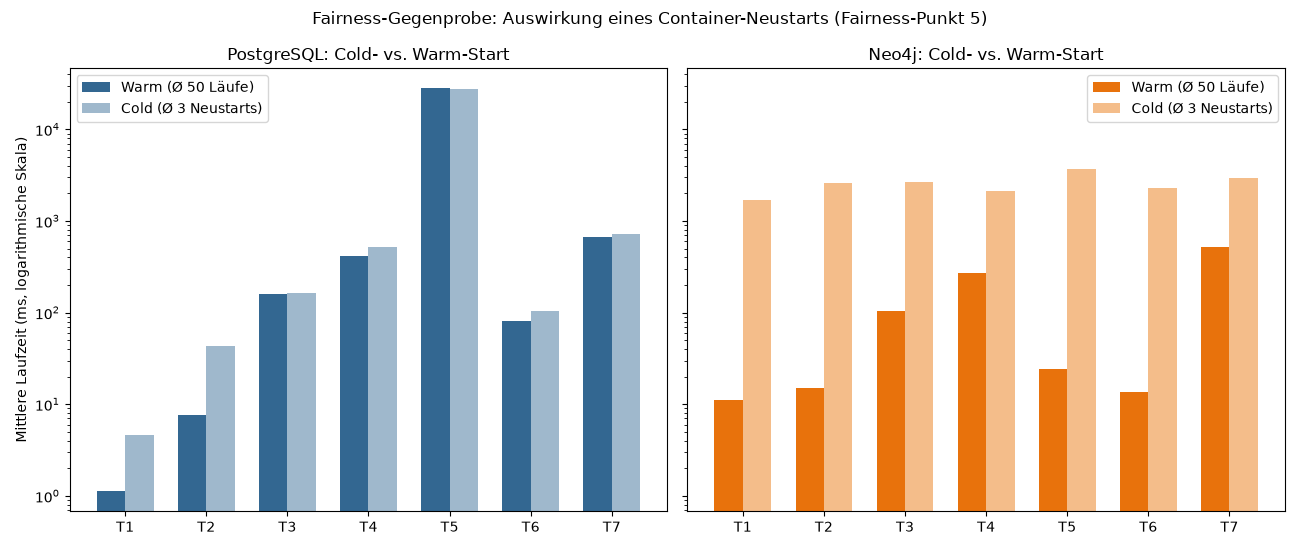
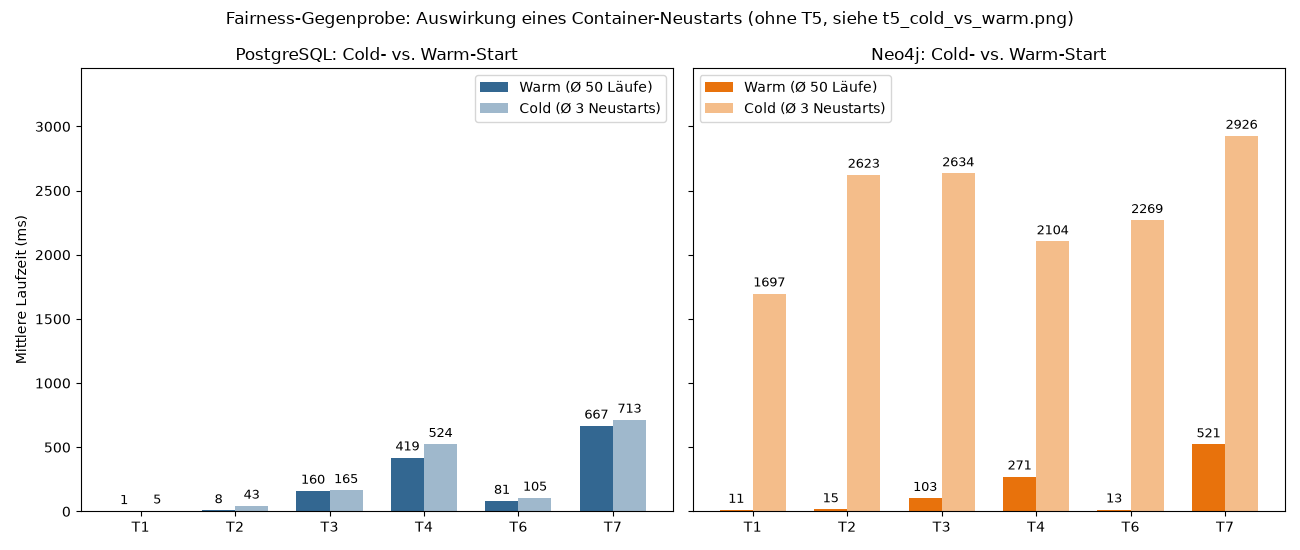
changed loga to ms

diff --git a/benchmark/plot_results.py b/benchmark/plot_results.py
@@ -3,6 +3,14 @@
 Liest, was an Ergebnissen vorhanden ist - fehlende Dateien werden einfach
 uebersprungen (kein Fehler), damit das Skript auch mit einem Teil-Datensatz
 an Messungen laeuft.
+
+Bewusst OHNE logarithmische Achsen: fuer ein Laien-Publikum ist eine
+Log-Skala schwer zu lesen (gleicher Abstand = "mal 10", nicht "plus 10").
+Stattdessen werden Werte mit sehr unterschiedlicher Groessenordnung (vor
+allem T5, das alle anderen Werte um das > 1000-fache uebersteigt) in
+eigene Diagramme ausgelagert, und jeder Balken bekommt seine Zahl direkt
+als Beschriftung - so bleibt alles in normalen Millisekunden/Sekunden
+ablesbar, auch wenn ein Balken auf der Achse winzig erscheint.
 """
 
 import csv
@@ -14,6 +22,9 @@ import matplotlib.pyplot as plt
 
 RESULTS_DIR = Path(__file__).resolve().parent.parent / "results"
 PLOTS_DIR = RESULTS_DIR / "plots"
+
+PG_COLOR = "#336791"
+NEO_COLOR = "#E8720C"
 
 
 def read_csv(path: Path) -> list[dict]:
@@ -30,43 +41,114 @@ def mean_by_system(rows: list[dict]) -> dict[str, float]:
     return out
 
 
-def plot_single_queries() -> None:
+def label_bars(ax, bars, fmt: str) -> None:
+    """Schreibt den Wert jedes Balkens als Zahl direkt darueber."""
+    for bar in bars:
+        height = bar.get_height()
+        ax.annotate(
+            fmt.format(height),
+            xy=(bar.get_x() + bar.get_width() / 2, height),
+            xytext=(0, 3),
+            textcoords="offset points",
+            ha="center",
+            va="bottom",
+            fontsize=9,
+        )
+
+
+def grouped_bar_chart(labels, pg_values, neo_values, *, ylabel, title, unit_fmt="{:.0f} ms") -> plt.Figure:
+    x = range(len(labels))
+    width = 0.35
+    fig, ax = plt.subplots(figsize=(7.5, 5))
+    bars_pg = ax.bar([i - width / 2 for i in x], pg_values, width, label="PostgreSQL", color=PG_COLOR)
+    bars_neo = ax.bar([i + width / 2 for i in x], neo_values, width, label="Neo4j", color=NEO_COLOR)
+    ax.set_xticks(list(x))
+    ax.set_xticklabels(labels)
+    ax.set_ylabel(ylabel)
+    ax.set_title(title)
+    ax.legend()
+    ax.margins(y=0.15)  # Platz fuer die Zahlen-Beschriftung ueber den Balken
+    label_bars(ax, bars_pg, unit_fmt)
+    label_bars(ax, bars_neo, unit_fmt)
+    fig.tight_layout()
+    return fig
+
+
+def save(fig: plt.Figure, filename: str) -> None:
+    PLOTS_DIR.mkdir(exist_ok=True)
+    out_path = PLOTS_DIR / filename
+    fig.savefig(out_path)
+    plt.close(fig)
+    print(f"Gespeichert: {out_path}")
+
+
+def collect_query_means(query_ids: list[str]) -> tuple[list[str], list[float], list[float]]:
     labels, pg_means, neo_means = [], [], []
-    for i in range(1, 7):
-        path = RESULTS_DIR / f"T{i}.csv"
+    for qid in query_ids:
+        path = RESULTS_DIR / f"{qid}.csv"
         if not path.exists():
             continue
         means = mean_by_system(read_csv(path))
         if not means:
             continue
-        labels.append(f"T{i}")
+        labels.append(qid)
         pg_means.append(means.get("postgres", 0))
         neo_means.append(means.get("neo4j", 0))
+    return labels, pg_means, neo_means
 
+
+def plot_queries_simple() -> None:
+    """T1/T2: einfache Abfragen, normale ms-Skala."""
+    labels, pg_means, neo_means = collect_query_means(["T1", "T2"])
     if not labels:
-        print("Keine T1-T6 Ergebnisse gefunden - Diagramm wird ausgelassen.")
+        print("Keine T1/T2-Ergebnisse gefunden - Diagramm wird ausgelassen.")
         return
+    fig = grouped_bar_chart(
+        labels, pg_means, neo_means,
+        ylabel="Mittlere Laufzeit (ms)",
+        title="Einfache Abfragen (T1, T2)",
+        unit_fmt="{:.1f} ms",
+    )
+    save(fig, "queries_einfach.png")
 
-    x = range(len(labels))
-    width = 0.35
-    fig, ax = plt.subplots(figsize=(8, 5))
-    ax.bar([i - width / 2 for i in x], pg_means, width, label="Postgres")
-    ax.bar([i + width / 2 for i in x], neo_means, width, label="Neo4j")
-    ax.set_xticks(list(x))
-    ax.set_xticklabels(labels)
-    ax.set_ylabel("Mittlere Laufzeit (ms, logarithmische Skala)")
-    # Log-Skala, weil T5 (Sekunden) und T1 (Millisekunden) sonst auf derselben
-    # linearen Achse nicht gleichzeitig lesbar waeren.
-    ax.set_yscale("log")
-    ax.set_title("Laufzeitvergleich pro Query (Mittelwert ueber alle Laeufe)")
-    ax.legend()
+
+def plot_queries_traversal() -> None:
+    """T3/T4/T6: Traversierungs-Abfragen, normale ms-Skala."""
+    labels, pg_means, neo_means = collect_query_means(["T3", "T4", "T6"])
+    if not labels:
+        print("Keine T3/T4/T6-Ergebnisse gefunden - Diagramm wird ausgelassen.")
+        return
+    fig = grouped_bar_chart(
+        labels, pg_means, neo_means,
+        ylabel="Mittlere Laufzeit (ms)",
+        title="Traversierungs-Abfragen (T3, T4, T6)",
+        unit_fmt="{:.0f} ms",
+    )
+    save(fig, "queries_traversierung.png")
+
+
+def plot_t5_special() -> None:
+    """T5 (kuerzester Pfad) sprengt jede gemeinsame ms-Skala - eigenes
+    Diagramm, in Sekunden statt Millisekunden (verstaendlicher: "28 s" statt
+    "27940 ms")."""
+    path = RESULTS_DIR / "T5.csv"
+    if not path.exists():
+        print("Keine T5-Ergebnisse gefunden - Diagramm wird ausgelassen.")
+        return
+    means = mean_by_system(read_csv(path))
+    if not means:
+        return
+    labels = ["PostgreSQL", "Neo4j"]
+    values_s = [means.get("postgres", 0) / 1000, means.get("neo4j", 0) / 1000]
+
+    fig, ax = plt.subplots(figsize=(6, 5))
+    bars = ax.bar(labels, values_s, color=[PG_COLOR, NEO_COLOR])
+    ax.set_ylabel("Mittlere Laufzeit (Sekunden)")
+    ax.set_title("Sonderfall T5 - kürzester Pfad")
+    ax.margins(y=0.15)
+    label_bars(ax, bars, "{:.3f} s")
     fig.tight_layout()
-
-    PLOTS_DIR.mkdir(exist_ok=True)
-    out_path = PLOTS_DIR / "queries_vergleich.png"
-    fig.savefig(out_path)
-    plt.close(fig)
-    print(f"Gespeichert: {out_path}")
+    save(fig, "t5_sonderfall.png")
 
 
 def plot_scaling() -> None:
@@ -90,41 +172,43 @@ def plot_scaling() -> None:
     neo_means = [p[1].get("neo4j", 0) for p in points]
 
     fig, ax = plt.subplots(figsize=(8, 5))
-    ax.plot(sizes, pg_means, marker="o", label="Postgres")
-    ax.plot(sizes, neo_means, marker="o", label="Neo4j")
+    ax.plot(sizes, pg_means, marker="o", label="PostgreSQL", color=PG_COLOR)
+    ax.plot(sizes, neo_means, marker="o", label="Neo4j", color=NEO_COLOR)
     ax.set_xlabel("Anzahl Knoten in der Teilmenge")
     ax.set_ylabel("Mittlere Laufzeit T7 (ms)")
     ax.set_title("Skalierung: T7-Laufzeit vs. Datenmenge")
     ax.legend()
     fig.tight_layout()
 
-    PLOTS_DIR.mkdir(exist_ok=True)
-    out_path = PLOTS_DIR / "skalierung_t7.png"
-    fig.savefig(out_path)
-    plt.close(fig)
-    print(f"Gespeichert: {out_path}")
+    save(fig, "skalierung_t7.png")
+
+
+def _cold_warm_means(query_id: str, cold_rows: list[dict]) -> tuple[dict, dict] | None:
+    warm_path = RESULTS_DIR / (f"{query_id}.csv" if query_id != "T7" else "T7_n4039.csv")
+    if not warm_path.exists():
+        return None
+    warm_means = mean_by_system(read_csv(warm_path))
+    cold_means = mean_by_system([r for r in cold_rows if r["query"] == query_id])
+    if not warm_means or not cold_means:
+        return None
+    return warm_means, cold_means
 
 
 def plot_cold_vs_warm() -> None:
+    """T1,T2,T3,T4,T6,T7: Cold- vs. Warm-Start, normale ms-Skala. T5 wird
+    bewusst ausgeklammert (eigenes Diagramm, siehe plot_t5_cold_vs_warm)."""
     cold_path = RESULTS_DIR / "cold_start.csv"
     if not cold_path.exists():
         print("Keine cold_start.csv gefunden - Cold-vs-Warm-Diagramm wird ausgelassen.")
         return
     cold_rows = read_csv(cold_path)
 
-    # Warm-Referenz: T1-T6 aus T{n}.csv, T7 aus der vollen Skalierungsgroesse
-    # (T7_n4039.csv) - das ist dieselbe Datenmenge, die auch fuer die
-    # Cold-Messungen aktiv war.
     labels, pg_cold, pg_warm, neo_cold, neo_warm = [], [], [], [], []
-    for i in range(1, 8):
-        qid = f"T{i}"
-        warm_path = RESULTS_DIR / (f"{qid}.csv" if i < 7 else "T7_n4039.csv")
-        if not warm_path.exists():
+    for qid in ("T1", "T2", "T3", "T4", "T6", "T7"):
+        result = _cold_warm_means(qid, cold_rows)
+        if result is None:
             continue
-        warm_means = mean_by_system(read_csv(warm_path))
-        cold_means = mean_by_system([r for r in cold_rows if r["query"] == qid])
-        if not warm_means or not cold_means:
-            continue
+        warm_means, cold_means = result
         labels.append(qid)
         pg_warm.append(warm_means.get("postgres", 0))
         pg_cold.append(cold_means.get("postgres", 0))
@@ -139,37 +223,74 @@ def plot_cold_vs_warm() -> None:
     x = range(len(labels))
     width = 0.35
 
-    axes[0].bar([i - width / 2 for i in x], pg_warm, width, label="Warm (Ø 50 Läufe)", color="#336791")
-    axes[0].bar([i + width / 2 for i in x], pg_cold, width, label="Cold (Ø 3 Neustarts)", color="#9fb8cc")
+    bars_pg_warm = axes[0].bar([i - width / 2 for i in x], pg_warm, width, label="Warm (Ø 50 Läufe)", color=PG_COLOR)
+    bars_pg_cold = axes[0].bar([i + width / 2 for i in x], pg_cold, width, label="Cold (Ø 3 Neustarts)", color="#9fb8cc")
     axes[0].set_title("PostgreSQL: Cold- vs. Warm-Start")
     axes[0].set_xticks(list(x))
     axes[0].set_xticklabels(labels)
-    axes[0].set_ylabel("Mittlere Laufzeit (ms, logarithmische Skala)")
-    axes[0].set_yscale("log")
+    axes[0].set_ylabel("Mittlere Laufzeit (ms)")
+    max_value = max(pg_warm + pg_cold + neo_warm + neo_cold)
+    axes[0].set_ylim(0, max_value * 1.18)
     axes[0].legend()
+    label_bars(axes[0], bars_pg_warm, "{:.0f}")
+    label_bars(axes[0], bars_pg_cold, "{:.0f}")
 
-    axes[1].bar([i - width / 2 for i in x], neo_warm, width, label="Warm (Ø 50 Läufe)", color="#E8720C")
-    axes[1].bar([i + width / 2 for i in x], neo_cold, width, label="Cold (Ø 3 Neustarts)", color="#f4bd8a")
+    bars_neo_warm = axes[1].bar([i - width / 2 for i in x], neo_warm, width, label="Warm (Ø 50 Läufe)", color=NEO_COLOR)
+    bars_neo_cold = axes[1].bar([i + width / 2 for i in x], neo_cold, width, label="Cold (Ø 3 Neustarts)", color="#f4bd8a")
     axes[1].set_title("Neo4j: Cold- vs. Warm-Start")
     axes[1].set_xticks(list(x))
     axes[1].set_xticklabels(labels)
-    axes[1].set_yscale("log")
     axes[1].legend()
+    label_bars(axes[1], bars_neo_warm, "{:.0f}")
+    label_bars(axes[1], bars_neo_cold, "{:.0f}")
 
-    fig.suptitle("Fairness-Gegenprobe: Auswirkung eines Container-Neustarts")
+    fig.suptitle("Fairness-Gegenprobe: Auswirkung eines Container-Neustarts (ohne T5, siehe t5_cold_vs_warm.png)")
     fig.tight_layout()
 
-    PLOTS_DIR.mkdir(exist_ok=True)
-    out_path = PLOTS_DIR / "cold_vs_warm.png"
-    fig.savefig(out_path)
-    plt.close(fig)
-    print(f"Gespeichert: {out_path}")
+    save(fig, "cold_vs_warm.png")
+
+
+def plot_t5_cold_vs_warm() -> None:
+    """T5 cold vs. warm separat, in Sekunden statt Millisekunden."""
+    cold_path = RESULTS_DIR / "cold_start.csv"
+    if not cold_path.exists():
+        return
+    cold_rows = read_csv(cold_path)
+    result = _cold_warm_means("T5", cold_rows)
+    if result is None:
+        print("Keine T5-Cold/Warm-Daten gefunden - Diagramm wird ausgelassen.")
+        return
+    warm_means, cold_means = result
+
+    labels = ["PostgreSQL", "Neo4j"]
+    warm_s = [warm_means.get("postgres", 0) / 1000, warm_means.get("neo4j", 0) / 1000]
+    cold_s = [cold_means.get("postgres", 0) / 1000, cold_means.get("neo4j", 0) / 1000]
+
+    x = range(len(labels))
+    width = 0.35
+    fig, ax = plt.subplots(figsize=(6, 5))
+    bars_warm = ax.bar([i - width / 2 for i in x], warm_s, width, label="Warm (Ø 50 Läufe)", color=[PG_COLOR, NEO_COLOR])
+    bars_cold = ax.bar([i + width / 2 for i in x], cold_s, width, label="Cold (Ø 3 Neustarts)", color=["#9fb8cc", "#f4bd8a"])
+    ax.set_xticks(list(x))
+    ax.set_xticklabels(labels)
+    ax.set_ylabel("Mittlere Laufzeit (Sekunden)")
+    ax.set_title("Sonderfall T5: Cold- vs. Warm-Start")
+    ax.margins(y=0.15)
+    ax.legend()
+    label_bars(ax, bars_warm, "{:.3f} s")
+    label_bars(ax, bars_cold, "{:.3f} s")
+    fig.tight_layout()
+
+    save(fig, "t5_cold_vs_warm.png")
 
 
 def main() -> None:
-    plot_single_queries()
+    plot_queries_simple()
+    plot_queries_traversal()
+    plot_t5_special()
     plot_scaling()
     plot_cold_vs_warm()
+    plot_t5_cold_vs_warm()
 
 
 if __name__ == "__main__":
